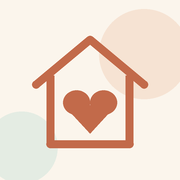
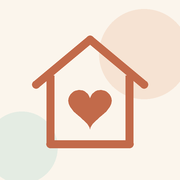
改善心形圖案
Claude-Session: https://claude.ai/code/session_016BG8gA2MEqcpr8B1zLuhAZ

Changed region(s): [[0.3333, 0.5, 0.6667, 0.75], [0.4722, 0.1944, 0.5278, 0.2222]]

diff --git a/index.html b/index.html
@@ -303,7 +303,7 @@ function welcome(){
       <circle cx="150" cy="40" r="34" fill="#F6E3D3"/><circle cx="38" cy="86" r="22" fill="#E4ECE3"/>
       <path d="M62 60 L100 28 L138 60" fill="none" stroke="#C26A4A" stroke-width="4" stroke-linecap="round" stroke-linejoin="round"/>
       <path d="M72 54 V104 H128 V54" fill="none" stroke="#C26A4A" stroke-width="4" stroke-linecap="round" stroke-linejoin="round"/>
-      <path d="M100 96 C82 84 85 69 95 70 C98 71 100 73 100 75 C100 73 102 71 105 70 C115 69 118 84 100 96 Z" fill="#C26A4A"/></svg></div>
+      <path d="M 100.0 77.5 L 100.0 77.3 L 100.1 76.9 L 100.3 76.2 L 100.6 75.4 L 101.1 74.4 L 101.9 73.5 L 102.8 72.6 L 104.0 71.8 L 105.3 71.3 L 106.7 71.0 L 108.2 71.0 L 109.7 71.4 L 111.2 72.0 L 112.4 72.9 L 113.5 74.1 L 114.3 75.4 L 114.8 76.9 L 115.0 78.4 L 114.8 80.0 L 114.3 81.5 L 113.5 83.0 L 112.4 84.5 L 111.2 85.9 L 109.7 87.3 L 108.2 88.6 L 106.7 89.9 L 105.3 91.2 L 104.0 92.4 L 102.8 93.5 L 101.9 94.6 L 101.1 95.6 L 100.6 96.4 L 100.3 97.1 L 100.1 97.7 L 100.0 98.0 L 100.0 98.1 L 100.0 98.0 L 99.9 97.7 L 99.7 97.1 L 99.4 96.4 L 98.9 95.6 L 98.1 94.6 L 97.2 93.5 L 96.0 92.4 L 94.7 91.2 L 93.3 89.9 L 91.8 88.6 L 90.3 87.3 L 88.8 85.9 L 87.6 84.5 L 86.5 83.0 L 85.7 81.5 L 85.2 80.0 L 85.0 78.4 L 85.2 76.9 L 85.7 75.4 L 86.5 74.1 L 87.6 72.9 L 88.8 72.0 L 90.3 71.4 L 91.8 71.0 L 93.3 71.0 L 94.7 71.3 L 96.0 71.8 L 97.2 72.6 L 98.1 73.5 L 98.9 74.4 L 99.4 75.4 L 99.7 76.2 L 99.9 76.9 L 100.0 77.3 L 100.0 77.5 Z" fill="#C26A4A"/></svg></div>
     <div class="hero">
       <h1>今天花一點時間，<br>讓家人少一點慌亂。</h1>
       <p class="lead">一次回答一個問題。完成後，系統會自動幫你整理成一本排版精美的個人手冊。</p>
@@ -554,7 +554,7 @@ function bookPages(){
   const pages=[]; let cur=null;
   for(const b of blocksNow()){
     if(b.t==="cover"){ pages.push(`<div class="bk-page cv"><div class="cover">
-      <svg viewBox="0 0 88 96" width="78" height="86" aria-hidden="true"><path d="M2 40 L44 4 L86 40" fill="none" stroke="#C26A4A" stroke-width="3.5" stroke-linecap="round" stroke-linejoin="round"/><path d="M12 34 V92 H76 V34" fill="none" stroke="#C26A4A" stroke-width="3.5" stroke-linecap="round" stroke-linejoin="round"/><path d="M44 82 C22 68 26 50 38 52 C42 53 44 56 44 58 C44 56 46 53 50 52 C62 50 66 68 44 82 Z" fill="#C26A4A"/></svg>
+      <svg viewBox="0 0 88 96" width="78" height="86" aria-hidden="true"><path d="M2 40 L44 4 L86 40" fill="none" stroke="#C26A4A" stroke-width="3.5" stroke-linecap="round" stroke-linejoin="round"/><path d="M12 34 V92 H76 V34" fill="none" stroke="#C26A4A" stroke-width="3.5" stroke-linecap="round" stroke-linejoin="round"/><path d="M 44.0 61.2 L 44.0 61.0 L 44.1 60.5 L 44.3 59.6 L 44.8 58.6 L 45.4 57.4 L 46.4 56.1 L 47.6 55.0 L 49.0 54.0 L 50.7 53.3 L 52.5 53.0 L 54.4 53.0 L 56.3 53.5 L 58.1 54.3 L 59.8 55.4 L 61.1 56.9 L 62.1 58.6 L 62.8 60.4 L 63.0 62.4 L 62.8 64.4 L 62.1 66.3 L 61.1 68.3 L 59.8 70.1 L 58.1 71.9 L 56.3 73.7 L 54.4 75.3 L 52.5 77.0 L 50.7 78.5 L 49.0 80.1 L 47.6 81.5 L 46.4 82.9 L 45.4 84.1 L 44.8 85.2 L 44.3 86.1 L 44.1 86.8 L 44.0 87.2 L 44.0 87.3 L 44.0 87.2 L 43.9 86.8 L 43.7 86.1 L 43.2 85.2 L 42.6 84.1 L 41.6 82.9 L 40.4 81.5 L 39.0 80.1 L 37.3 78.5 L 35.5 77.0 L 33.6 75.3 L 31.7 73.7 L 29.9 71.9 L 28.2 70.1 L 26.9 68.3 L 25.9 66.3 L 25.2 64.4 L 25.0 62.4 L 25.2 60.4 L 25.9 58.6 L 26.9 56.9 L 28.2 55.4 L 29.9 54.3 L 31.7 53.5 L 33.6 53.0 L 35.5 53.0 L 37.3 53.3 L 39.0 54.0 L 40.4 55.0 L 41.6 56.1 L 42.6 57.4 L 43.2 58.6 L 43.7 59.6 L 43.9 60.5 L 44.0 61.0 L 44.0 61.2 Z" fill="#C26A4A"/></svg>
       <div class="kick">PERSONAL HANDBOOK</div><div class="t">萬一手冊</div><div class="sub">寫給我最重要的人</div>
       <div class="owner">${esc((b.name||"").trim())}</div><div class="d">最後更新：${esc(b.date)}</div>
       <div class="msg">如果你正在讀這本手冊，<br>代表我需要你的幫忙。<br>你需要知道的事，我都寫在裡面了。</div></div></div>`); continue; }

diff --git a/pdfbook.js b/pdfbook.js
@@ -81,7 +81,7 @@
       const hx = W / 2 - 44, hy = H - 210;
       page.drawSvgPath("M 0 40 L 44 4 L 88 40", { x: hx, y: hy, borderColor: C.acc, borderWidth: 3, borderLineCap: 1 });
       page.drawSvgPath("M 12 34 V 92 H 76 V 34", { x: hx, y: hy, borderColor: C.acc, borderWidth: 3, borderLineCap: 1 });
-      page.drawSvgPath("M 44 82 C 22 68 26 50 38 52 C 42 53 44 56 44 58 C 44 56 46 53 50 52 C 62 50 66 68 44 82 Z", { x: hx, y: hy, color: C.acc });
+      page.drawSvgPath("M 44.0 61.2 L 44.0 61.0 L 44.1 60.5 L 44.3 59.6 L 44.8 58.6 L 45.4 57.4 L 46.4 56.1 L 47.6 55.0 L 49.0 54.0 L 50.7 53.3 L 52.5 53.0 L 54.4 53.0 L 56.3 53.5 L 58.1 54.3 L 59.8 55.4 L 61.1 56.9 L 62.1 58.6 L 62.8 60.4 L 63.0 62.4 L 62.8 64.4 L 62.1 66.3 L 61.1 68.3 L 59.8 70.1 L 58.1 71.9 L 56.3 73.7 L 54.4 75.3 L 52.5 77.0 L 50.7 78.5 L 49.0 80.1 L 47.6 81.5 L 46.4 82.9 L 45.4 84.1 L 44.8 85.2 L 44.3 86.1 L 44.1 86.8 L 44.0 87.2 L 44.0 87.3 L 44.0 87.2 L 43.9 86.8 L 43.7 86.1 L 43.2 85.2 L 42.6 84.1 L 41.6 82.9 L 40.4 81.5 L 39.0 80.1 L 37.3 78.5 L 35.5 77.0 L 33.6 75.3 L 31.7 73.7 L 29.9 71.9 L 28.2 70.1 L 26.9 68.3 L 25.9 66.3 L 25.2 64.4 L 25.0 62.4 L 25.2 60.4 L 25.9 58.6 L 26.9 56.9 L 28.2 55.4 L 29.9 54.3 L 31.7 53.5 L 33.6 53.0 L 35.5 53.0 L 37.3 53.3 L 39.0 54.0 L 40.4 55.0 L 41.6 56.1 L 42.6 57.4 L 43.2 58.6 L 43.7 59.6 L 43.9 60.5 L 44.0 61.0 L 44.0 61.2 Z", { x: hx, y: hy, color: C.acc });
       center("PERSONAL HANDBOOK", H - 330, sans, 9, C.muted);
       center("萬一手冊", H - 392, serif, 50, C.acc);
       center("寫給我最重要的人", H - 428, sans, 12.5, C.muted);
